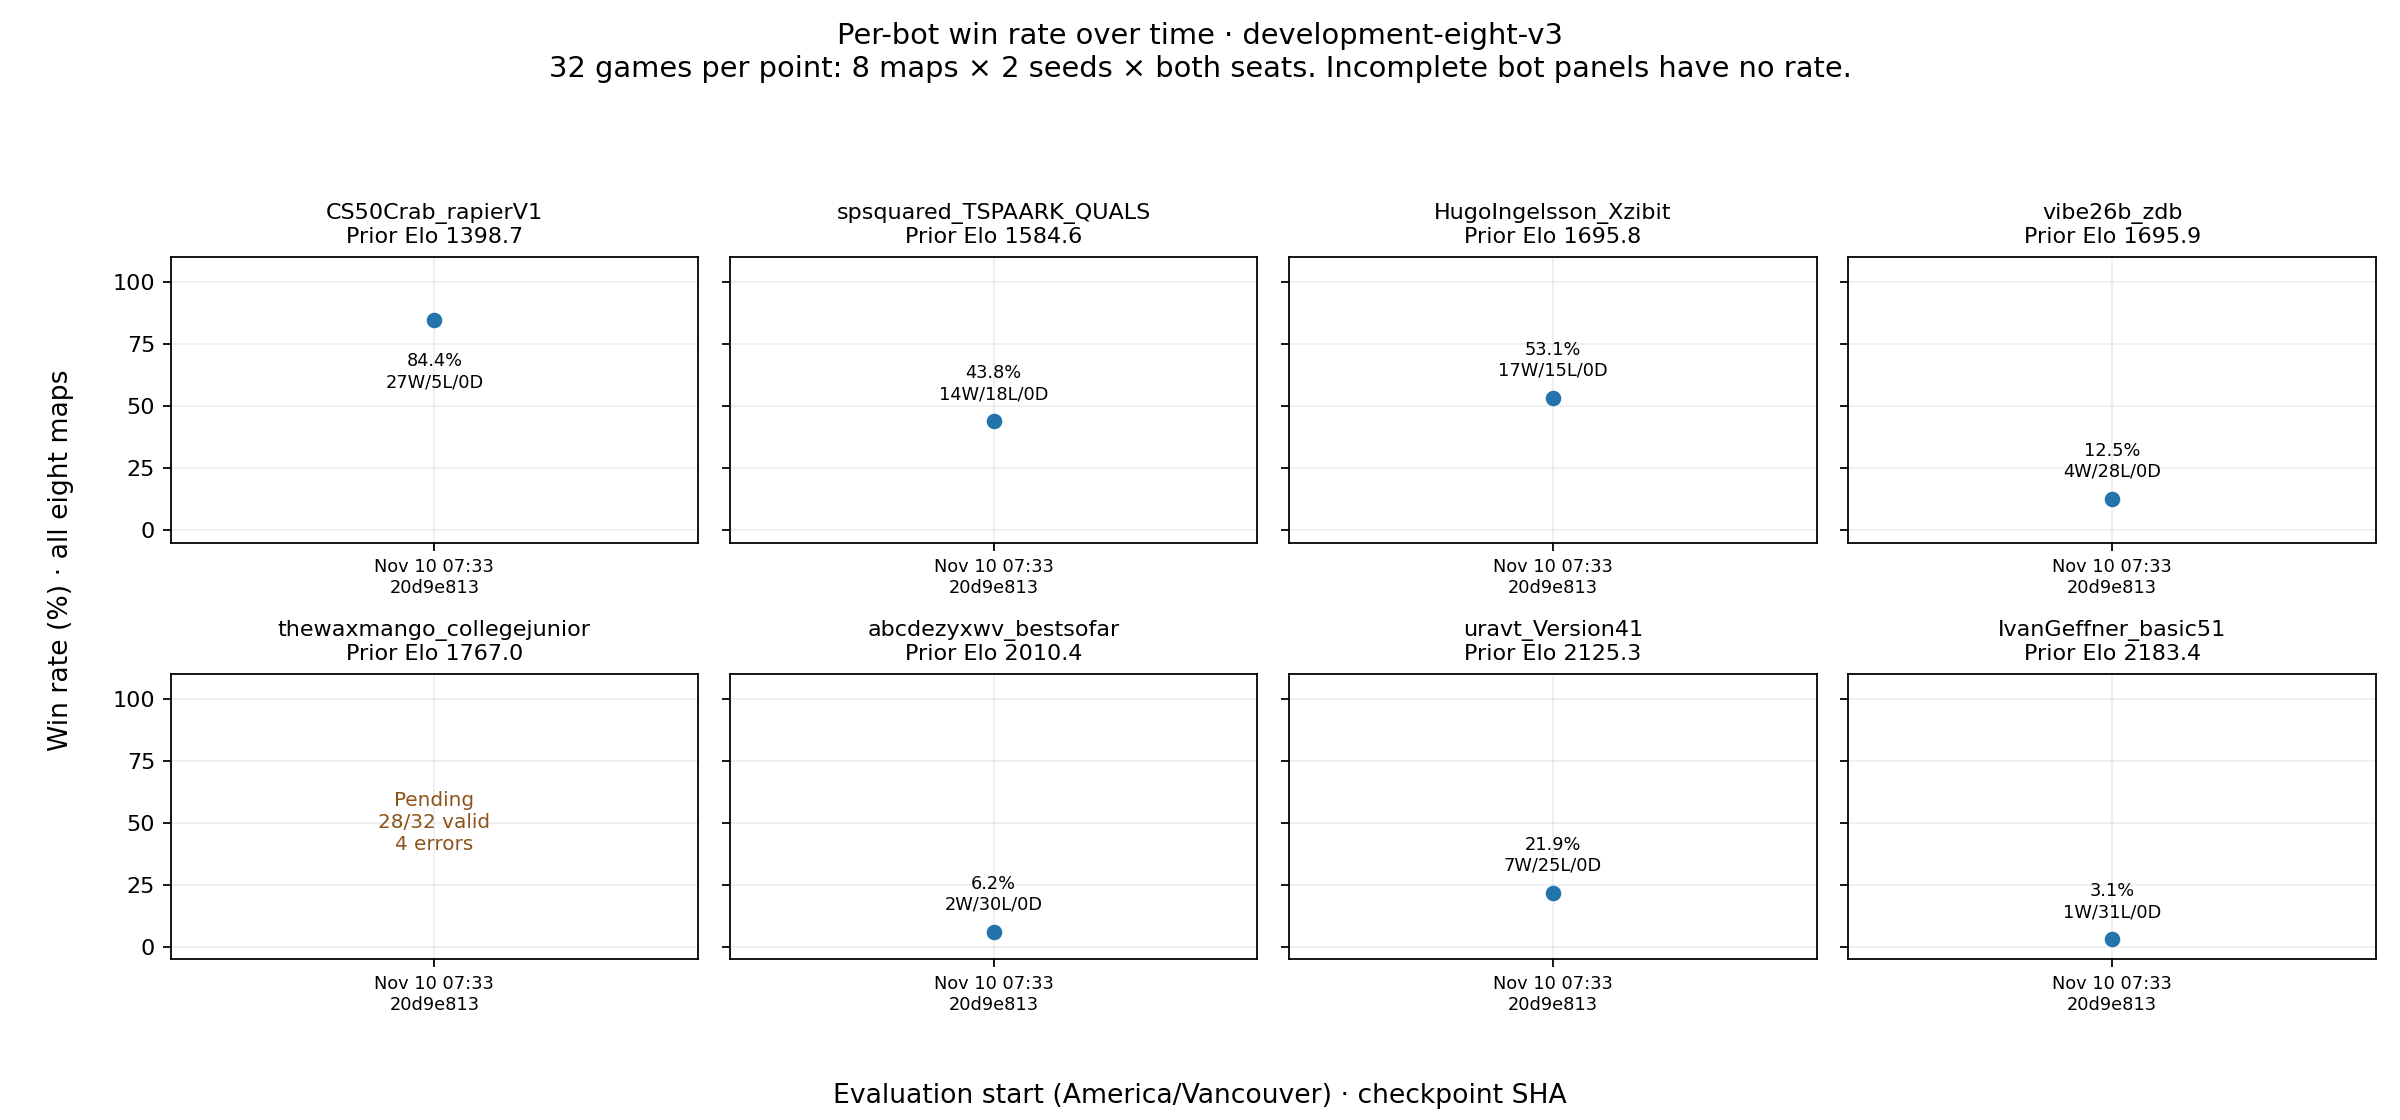
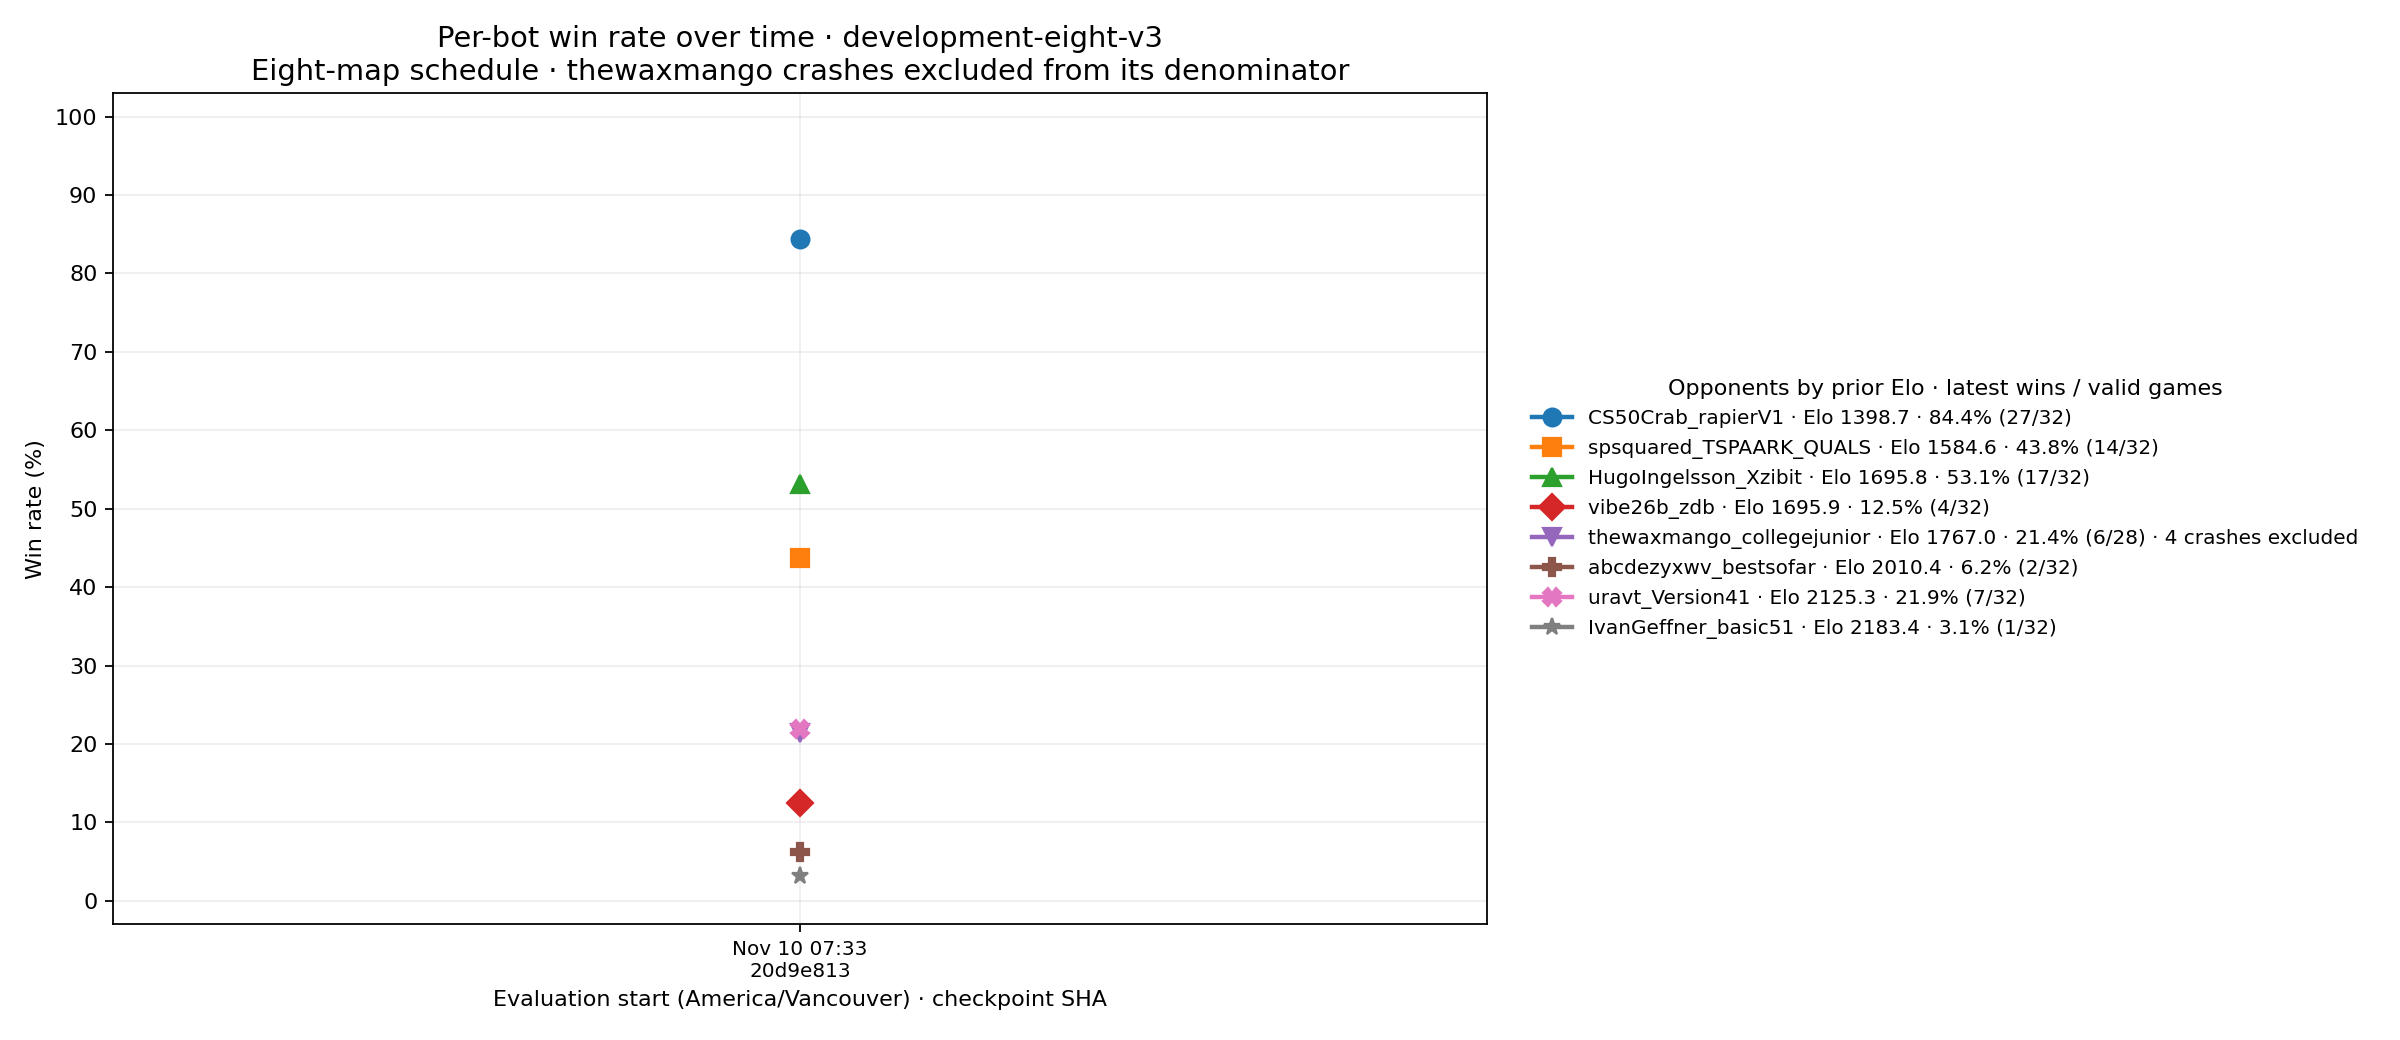
Combine bot histories and exclude collegejunior crashes from displayed rate

diff --git a/scripts/plot_development_history.py b/scripts/plot_development_history.py
@@ -1,4 +1,4 @@
-"""Per-bot, equal-map win-rate history on one frozen development suite."""
+"""Per-bot win-rate history on one frozen development suite."""
 from pathlib import Path
 import hashlib
 import json
@@ -35,9 +35,13 @@ def summarize(rows, manifest):
         complete = len(valid) == len(expected)
         counts = {name: sum(r['score'] == score for r in valid)
                   for name, score in [('wins', 1), ('losses', 0), ('draws', .5)]}
+        crash_exclusion = (bot == 'thewaxmango_collegejunior' and len(rr) == len(expected)
+                           and all(r['status'] == 'ok' or r.get('error_kind') == 'opponent_runtime_error' for r in rr))
+        rate_available = bool(valid) and (complete or crash_exclusion)
         result[bot] = {**counts, 'valid': len(valid), 'expected': len(expected),
                        'errors': len(rr)-len(valid), 'complete': complete,
-                       'win_rate': counts['wins']/len(expected) if complete else None}
+                       'excluded_crashes': len(rr)-len(valid) if crash_exclusion else 0,
+                       'win_rate': counts['wins']/len(valid) if rate_available else None}
     return {'checkpoint_sha256': rows[0]['checkpoint_sha256'],
             'evaluation_config_sha256': rows[0]['evaluation_config_sha256'],
             'started_at': min(r['started_at'] for r in rows), 'bots': result}
@@ -64,26 +68,33 @@ def generate(current, manifest):
         history.append(item)
     history.sort(key=lambda x: (x['started_at'], x['source']))
     ordered = sorted(manifest['bots'], key=lambda b: (b['historical_rating']['elo'], b['id']))
-    fig, axes = plt.subplots(2, 4, figsize=(15, 7), sharex=True, sharey=True)
+    fig, ax = plt.subplots(figsize=(15, 6.5))
     labels = [datetime.fromisoformat(h['started_at'].replace('Z','+00:00')).astimezone(ZoneInfo('America/Vancouver')).strftime('%b %d %H:%M')+'\n'+h['checkpoint_sha256'][:8] for h in history]
-    for ax, bot in zip(axes.flat, ordered):
-        # Separate lines per runtime; gaps remain gaps, never estimated rates.
-        for runtime in sorted({h['evaluation_config_sha256'] for h in history}):
-            ys = [100*h['bots'][bot['id']]['win_rate'] if h['evaluation_config_sha256']==runtime and h['bots'][bot['id']]['complete'] else float('nan') for h in history]
-            ax.plot(range(len(history)), ys, 'o-', color='#2374AB', linewidth=2)
-        for i,h in enumerate(history):
-            c=h['bots'][bot['id']]
-            if c['complete']:
-                y=100*c['win_rate'];ax.annotate(f"{y:.1f}%\n{c['wins']}W/{c['losses']}L/{c['draws']}D",(i,y),xytext=(0,10 if y<80 else -30),textcoords='offset points',ha='center',fontsize=8)
-            else:
-                ax.text(i,50,f"Pending\n{c['valid']}/{c['expected']} valid\n{c['errors']} errors",ha='center',va='center',fontsize=9,color='#8c5318')
-        ax.set_title(f"{bot['id']}\nPrior Elo {bot['historical_rating']['elo']:.1f}",fontsize=10)
-        ax.set_ylim(-5,110);ax.set_xlim(-.6,max(.6,len(history)-.4));ax.set_yticks([0,25,50,75,100]);ax.grid(alpha=.2)
-        ax.set_xticks(range(len(history)),labels,fontsize=8)
-        ax.tick_params(axis='x',labelbottom=True)
-    fig.supylabel('Win rate (%) · all eight maps');fig.supxlabel('Evaluation start (America/Vancouver) · checkpoint SHA')
-    fig.suptitle(f"Per-bot win rate over time · {manifest['suite_id']}\n32 games per point: 8 maps × 2 seeds × both seats. Incomplete bot panels have no rate.",fontsize=13)
-    fig.tight_layout(rect=(.015,.03,1,.92))
+    colors = plt.get_cmap('tab10').colors
+    markers = ['o', 's', '^', 'D', 'v', 'P', 'X', '*']
+    for index, bot in enumerate(ordered):
+        latest = history[-1]['bots'][bot['id']] if history else None
+        label = f"{bot['id']} · Elo {bot['historical_rating']['elo']:.1f}"
+        if latest and latest['win_rate'] is not None:
+            label += f" · {100*latest['win_rate']:.1f}% ({latest['wins']}/{latest['valid']})"
+            if latest['excluded_crashes']:
+                label += f" · {latest['excluded_crashes']} crashes excluded"
+        else:
+            label += ' · pending'
+        # Never connect measurements across different runtimes.
+        for j, runtime in enumerate(sorted({h['evaluation_config_sha256'] for h in history})):
+            ys = [100*h['bots'][bot['id']]['win_rate'] if h['evaluation_config_sha256']==runtime and h['bots'][bot['id']]['win_rate'] is not None else float('nan') for h in history]
+            ax.plot(range(len(history)), ys, marker=markers[index % len(markers)],
+                    color=colors[index % len(colors)], linewidth=2, markersize=8,
+                    label=label if j == 0 else None)
+    ax.set_ylim(-3,103);ax.set_xlim(-.5,max(.5,len(history)-.5))
+    ax.set_yticks(range(0,101,10));ax.grid(alpha=.2)
+    ax.set_xticks(range(len(history)),labels,fontsize=9)
+    ax.set_ylabel('Win rate (%)');ax.set_xlabel('Evaluation start (America/Vancouver) · checkpoint SHA')
+    ax.set_title(f"Per-bot win rate over time · {manifest['suite_id']}\nEight-map schedule · thewaxmango crashes excluded from its denominator",fontsize=13)
+    ax.legend(loc='center left',bbox_to_anchor=(1.02,.5),frameon=False,fontsize=9,
+              title='Opponents by prior Elo · latest wins / valid games')
+    fig.tight_layout()
     out=ROOT/'progress/overview';out.mkdir(exist_ok=True)
     fig.savefig(out/'development-history.png',dpi=160);plt.close(fig)
-    (out/'development-history.json').write_text(json.dumps({'suite_id':manifest['suite_id'],'aggregation':'wins / all scheduled games; equal map weights; draws are not wins','evaluations':history},indent=2)+'\n')
+    (out/'development-history.json').write_text(json.dumps({'suite_id':manifest['suite_id'],'aggregation':'wins / valid games; thewaxmango opponent crashes excluded; other incomplete panels have no rate; draws are not wins','evaluations':history},indent=2)+'\n')

diff --git a/scripts/report_development.py b/scripts/report_development.py
@@ -48,7 +48,7 @@ def generate(progress, manifest_path=None):
 
 ![Per-bot win rate over time, aggregated across eight maps](progress/overview/development-history.png)
 
-Each point aggregates all eight maps for one bot (32 games). Incomplete bot panels show coverage instead of a win rate. Only this frozen development suite is included; historical tiny-only results are separate. History begins with the first broader-map baseline; subsequent checkpoint evaluations add time points. [History data](progress/overview/development-history.json).
+All bots share one graph, ordered by prior Elo in the legend. Each point aggregates the eight-map schedule (32 games per bot). For `thewaxmango`, bot crashes are excluded: win rate is wins divided by valid games, with the excluded count shown. Other incomplete bot panels remain pending. Only this frozen development suite is included; historical tiny-only results are separate. History begins with the first broader-map baseline; subsequent checkpoint evaluations add time points. [History data](progress/overview/development-history.json).
 <!-- CURRENT_BENCHMARK_END -->''' 
  if not rows:block=block.replace(f' · [Raw evaluation]({data["source"]}/evaluations.jsonl)','').replace('Checkpoint `not-yet-eval`','Baseline evaluation pending')
  readme=ROOT/'README.md';s=readme.read_text();s=re.sub(r'<!-- CURRENT_BENCHMARK_START -->.*?<!-- CURRENT_BENCHMARK_END -->',lambda _:block,s,flags=re.S);readme.write_text(s)

diff --git a/README.md b/README.md
@@ -9,7 +9,7 @@
 
 ![Per-bot win rate over time, aggregated across eight maps](progress/overview/development-history.png)
 
-Each point aggregates all eight maps for one bot (32 games). Incomplete bot panels show coverage instead of a win rate. Only this frozen development suite is included; historical tiny-only results are separate. History begins with the first broader-map baseline; subsequent checkpoint evaluations add time points. [History data](progress/overview/development-history.json).
+All bots share one graph, ordered by prior Elo in the legend. Each point aggregates the eight-map schedule (32 games per bot). For `thewaxmango`, bot crashes are excluded: win rate is wins divided by valid games, with the excluded count shown. Other incomplete bot panels remain pending. Only this frozen development suite is included; historical tiny-only results are separate. History begins with the first broader-map baseline; subsequent checkpoint evaluations add time points. [History data](progress/overview/development-history.json).
 <!-- CURRENT_BENCHMARK_END -->
 
 **Baseline status:** collection ended with four reproducible `collegejunior` bot errors on `wallsofparadis`; this panel cannot establish improvement. [Crash review and replacement qualification](diagnostics/collegejunior-wallsofparadis/README.md) preserves the evidence. All eight maps remain required.
